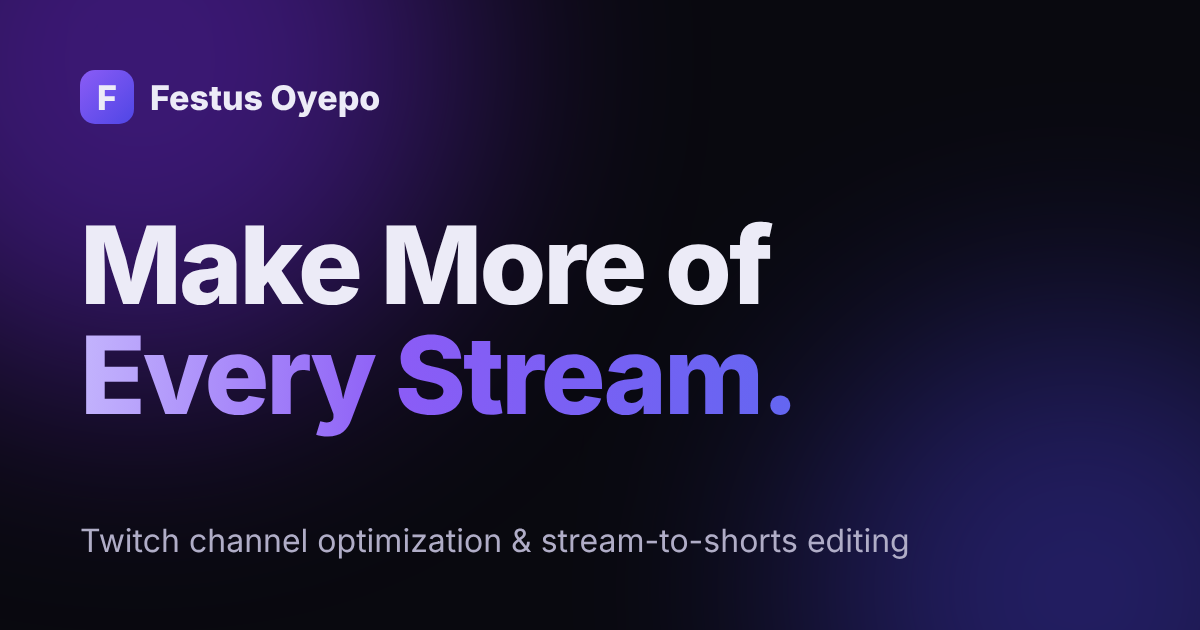
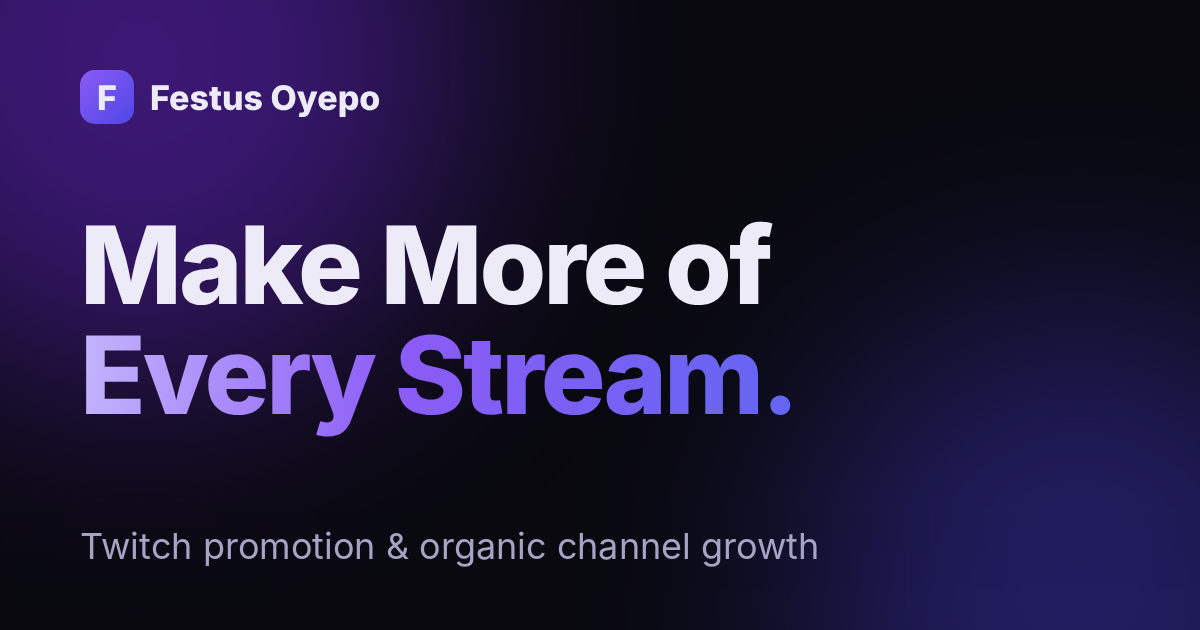
Add files via upload

Changed region(s): [[0.0617, 0.8444, 0.7708, 0.9048]]

diff --git a/index.html b/index.html
@@ -122,13 +122,13 @@
       </article>
       <article class="card reveal">
         <span class="tag">Twitch &amp; YouTube</span>
-        <h3>Creator Content Strategy</h3>
-        <p>A simple plan for turning streams into content you can keep up with.</p>
+        <h3>Cross-Platform Promotion</h3>
+        <p>A simple promotion plan to get your channel in front of new audiences beyond Twitch.</p>
         <ul class="ticks">
-          <li>Stream-highlight repurposing plans</li>
-          <li>Content scheduling recommendations</li>
-          <li>Suggestions for improving how content is packaged</li>
-          <li>A practical workflow for posting across platforms</li>
+          <li>Promotion plans for your best stream moments</li>
+          <li>Posting and scheduling recommendations</li>
+          <li>Suggestions for how your channel is presented to new viewers</li>
+          <li>A practical routine for promoting across platforms</li>
         </ul>
       </article>
       <article class="card reveal">
